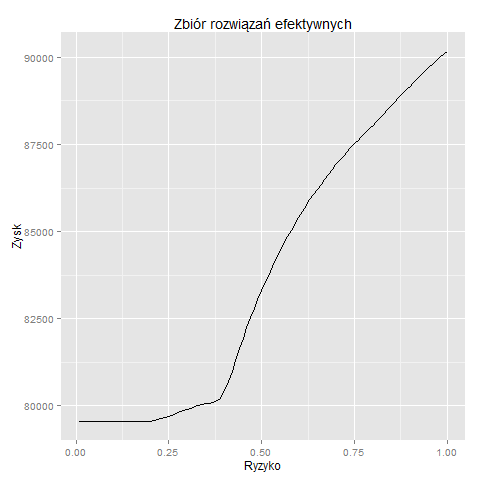
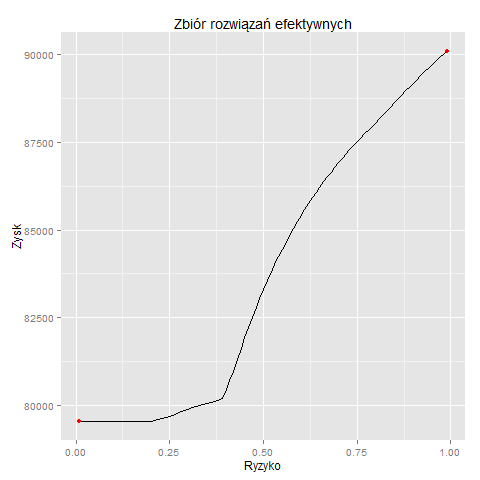
Zadanie 3

diff --git a/README.md b/README.md
@@ -1,2 +1,8 @@
 wdwr
 ====
+
+Zadania
+2. odpowiedź w zbior_rozw_efekt.png`
+3. Odpowiedzi:
+Minimalne ryzyko: 0.01, wtedy zysk równa się 79540.3.
+Maksymalny wynik (dla ryzyka 0.99) to 90088.7
